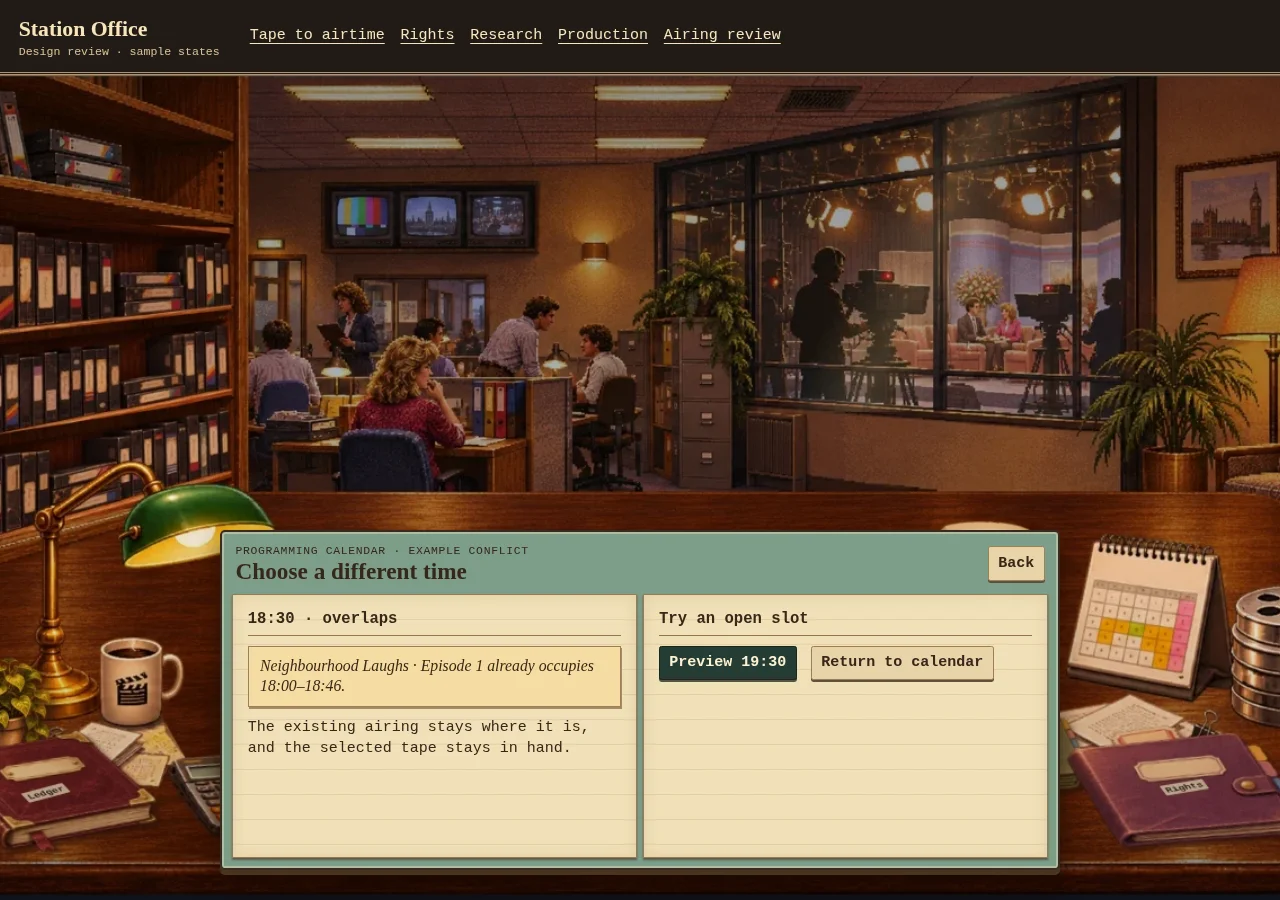
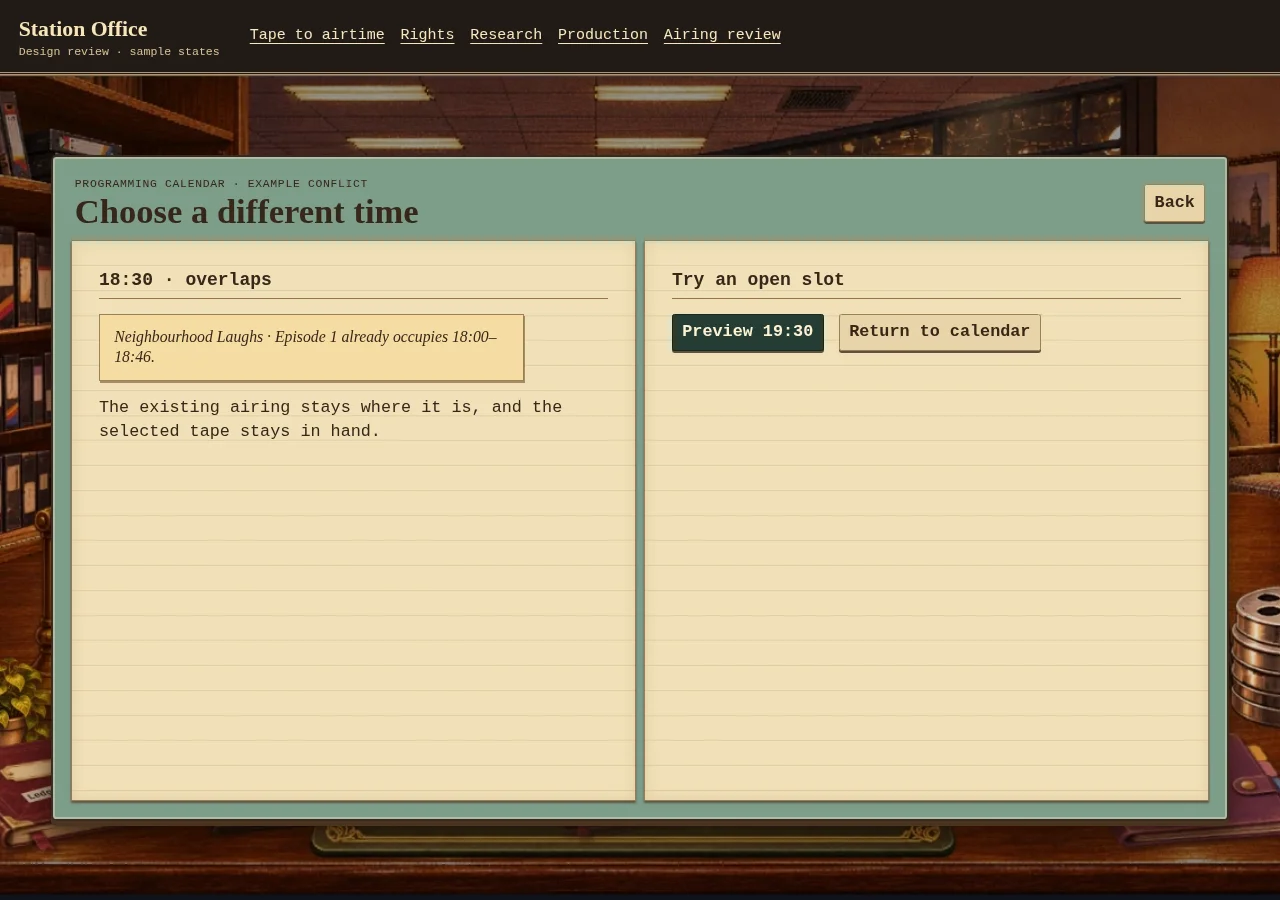
Give active journey mockups more room

diff --git a/docs/mockups/player-journeys/boards.css b/docs/mockups/player-journeys/boards.css
@@ -9,7 +9,7 @@
 body { margin:0; background:#302015; color:#f9e6ba }
 h1, h2, h3, p { margin:0 }
 p + p { margin-top:.6rem }
-h1 { font: bold 1.55rem/1.1 Georgia, serif }
+h1 { font: bold clamp(1.55rem, 2.7vw, 2.45rem)/1.1 Georgia, serif }
 h2 { font-size:1.04rem; padding-bottom:.3rem; border-bottom:1px solid #95764c }
 h3 { font-size:1rem }
 a, button { color:inherit; font:inherit }
@@ -24,14 +24,16 @@ a { text-underline-offset:.25em }
 .review-bar nav { display:flex; flex-wrap:wrap; gap:.32rem 1.05rem }
 .review-bar nav a { padding:.25rem 0 }
 .office {
-  min-height:calc(100svh - 5rem); display:grid; align-items:end; padding:5rem 1rem 2rem;
+  min-height:calc(100svh - 5rem); display:grid; align-items:center;
+  padding:2rem clamp(1.4rem, 4vw, 5rem);
   background:linear-gradient(#170c0133,#170c0100 42%,#15070444),
     url('baseline/office-backdrop.webp') center bottom / cover no-repeat;
 }
-.workbench { width:min(56rem,100%); margin: auto auto 0 }
+.workbench { width:min(82rem,100%); margin-inline:auto }
 .file {
   --cover:#c1a278;
-  padding:.65rem; color:var(--ink); background:var(--cover);
+  min-height:min(74svh, 55rem); display:flex; flex-direction:column;
+  padding:clamp(.65rem, 1.4vw, 1.3rem); color:var(--ink); background:var(--cover);
   box-shadow:0 5px 0 #493421, 0 16px 26px #160902b8, inset 0 0 0 2px #fff1cb62;
   border:2px solid #392a20; border-radius:.34rem;
 }
@@ -42,13 +44,14 @@ a { text-underline-offset:.25em }
 .file[data-stock="dark"] { --cover:#7d9d89 }
 .file-cover { display:flex; justify-content:space-between; align-items:center; gap:.8rem; margin:.1rem .25rem .65rem }
 .cover-label { display:block; font-size:.76rem; letter-spacing:.06em; text-transform:uppercase }
-.papers { display:grid; grid-template-columns:repeat(2,minmax(0,1fr)); gap:.4rem }
+.papers { flex:1; display:grid; grid-template-columns:repeat(2,minmax(0,1fr)); gap:.55rem }
 .leaf {
-  min-height:17.6rem; padding:.85rem 1rem;
+  min-height:0; padding:clamp(.85rem, 2.1vw, 1.8rem);
   border:1px solid #957b55; box-shadow:inset 0 0 14px #b3946240, 0 2px 2px #472b20a0;
   background:repeating-linear-gradient(var(--paper) 0 24px,#e5cfa4 24px 25px);
 }
 .leaf > :not(:first-child) { margin-top:.66rem }
+.leaf > p { max-width:54ch }
 .note, .receipt, .card {
   padding:.62rem .75rem; background:#fbebc6; border:1px solid #9d8055;
   box-shadow:1px 2px 0 #a88b62;
@@ -115,10 +118,18 @@ a { text-underline-offset:.25em }
   display:inline-grid; place-items:center; width:2.7rem; height:2.7rem;
   background:#31493e; color:#fff4cc; border-radius:50%; border:.26rem dotted #a2be9a;
 }
+@media(min-width:900px) {
+  .file { font-size:1.12rem }
+  .file h2 { font-size:1.2rem }
+  .leaf > :not(:first-child) { margin-top:1rem }
+  .note, .receipt, .card { padding:.8rem .95rem }
+  .slot { min-height:4.8rem; padding:.65rem }
+}
 @media(max-width:640px) {
   .review-bar { min-height:0; gap:.35rem; padding:.5rem .7rem }
   .review-bar nav { font-size:.76rem; gap:.22rem .8rem }
   .office { min-height:calc(100svh - 6.5rem); padding:1.55rem .45rem 1rem }
+  .file { min-height:0 }
   .papers { grid-template-columns:1fr }
   .leaf { min-height:0; padding:.65rem }
   h1 { font-size:1.24rem }

diff --git a/docs/mockups/player-journeys/README.md b/docs/mockups/player-journeys/README.md
@@ -38,7 +38,11 @@ The boards use static tab labels where the content is outside these paths.
 Use the in-scene Back links or Escape where available. The route links at
 the top are a review aid. In the game, the desk props remain the entry points.
 
-## Decisions for feedback
+## Deferred design decisions
+
+Use most of the viewport for the active workspace. Keep a margin of office
+art around it for orientation. The questions below can wait for their
+respective implementation slices.
 
 - Should **Best aired** and **Also works** always be the first tape evidence,
   or stay inside Reception? Is the proposed fit strip clear enough to choose
